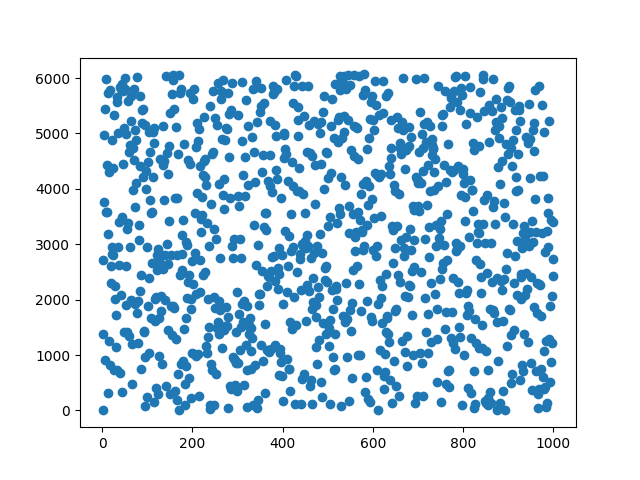
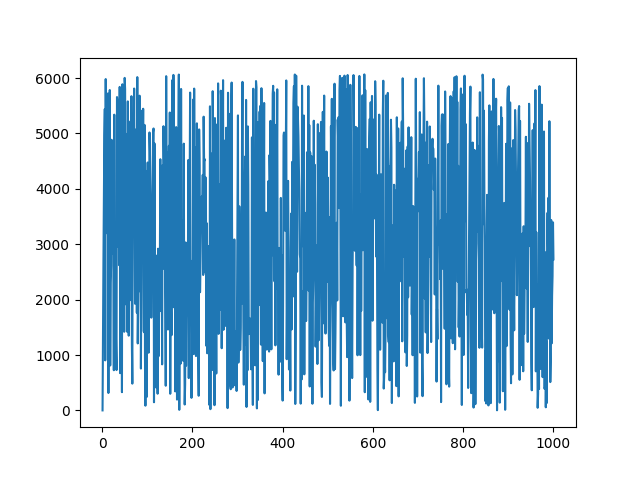
Scatter -> Plot

diff --git a/Q1/Q1.py b/Q1/Q1.py
@@ -14,7 +14,7 @@ I[0] = 1
 for i in range(1, 1000):
     I[i] = nextNum(106, 1283, 6075, I[i - 1])
 
-plt.scatter(x, I)
+plt.plot(x, I)
 plt.show()
 
 # b I_j + 1 vs I_j
@@ -44,5 +44,5 @@ for n in N:
     Isum /= n
     y.append(Isum)
 
-plt.scatter(N, y)
+plt.plot(N, y)
 plt.show()
